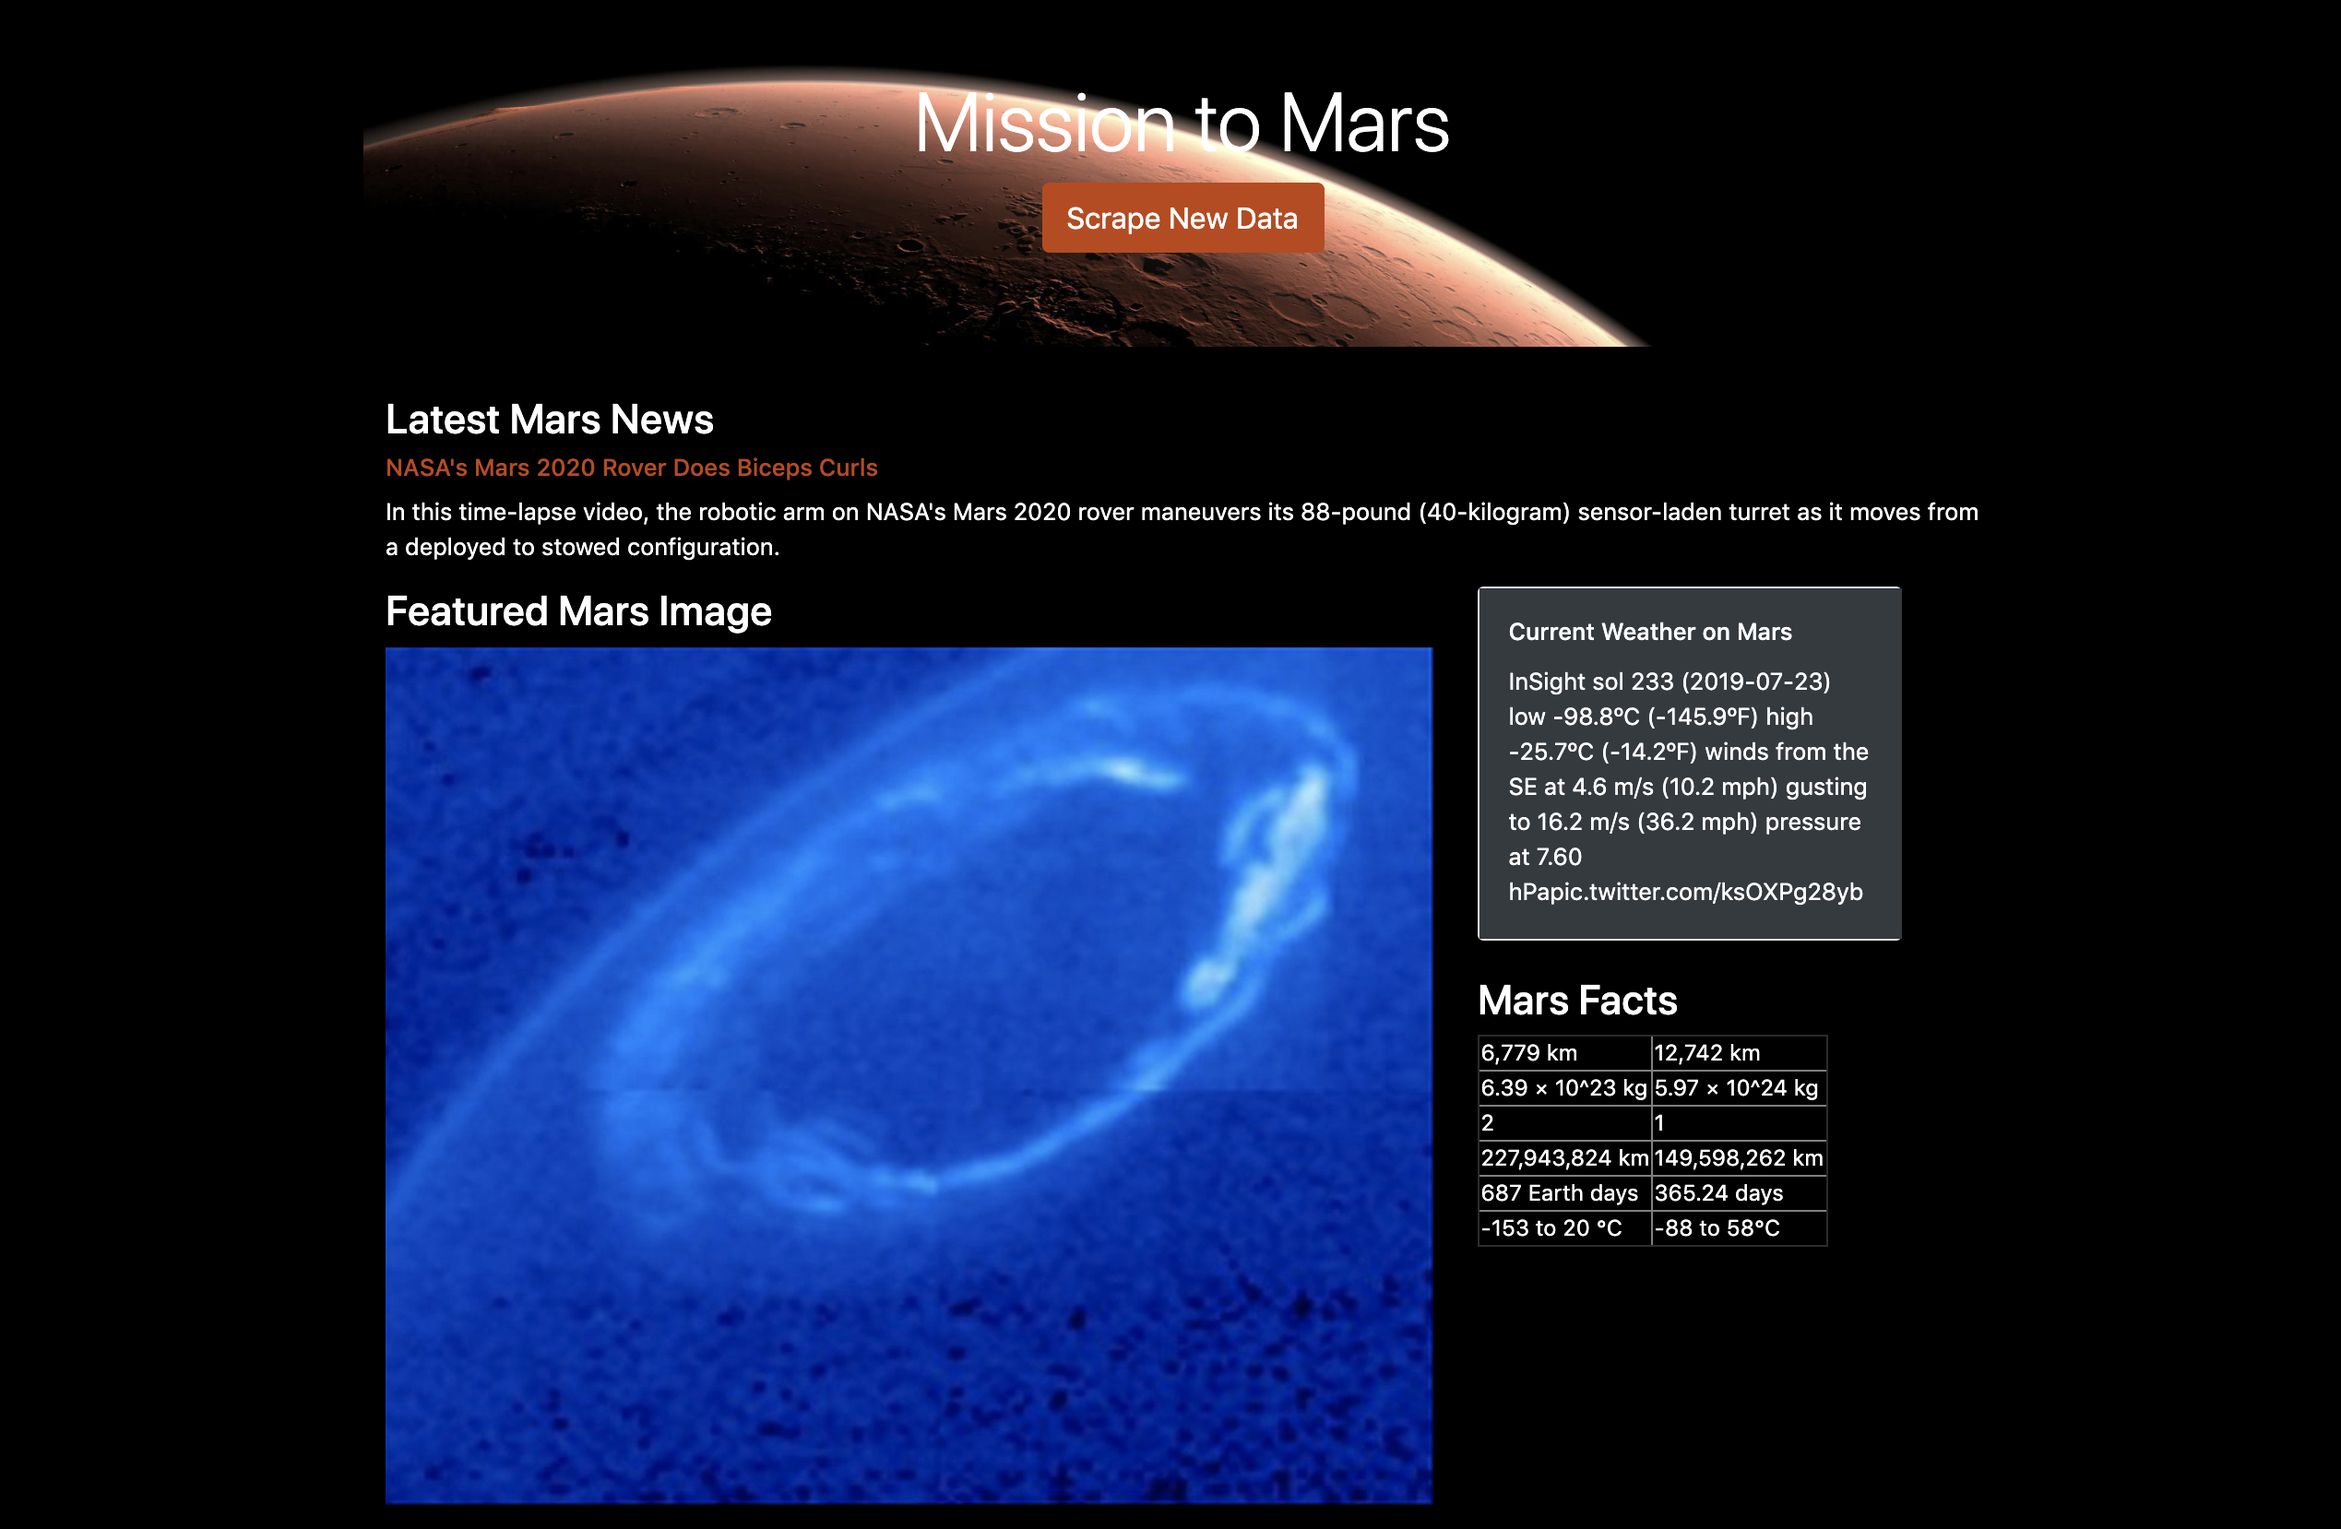
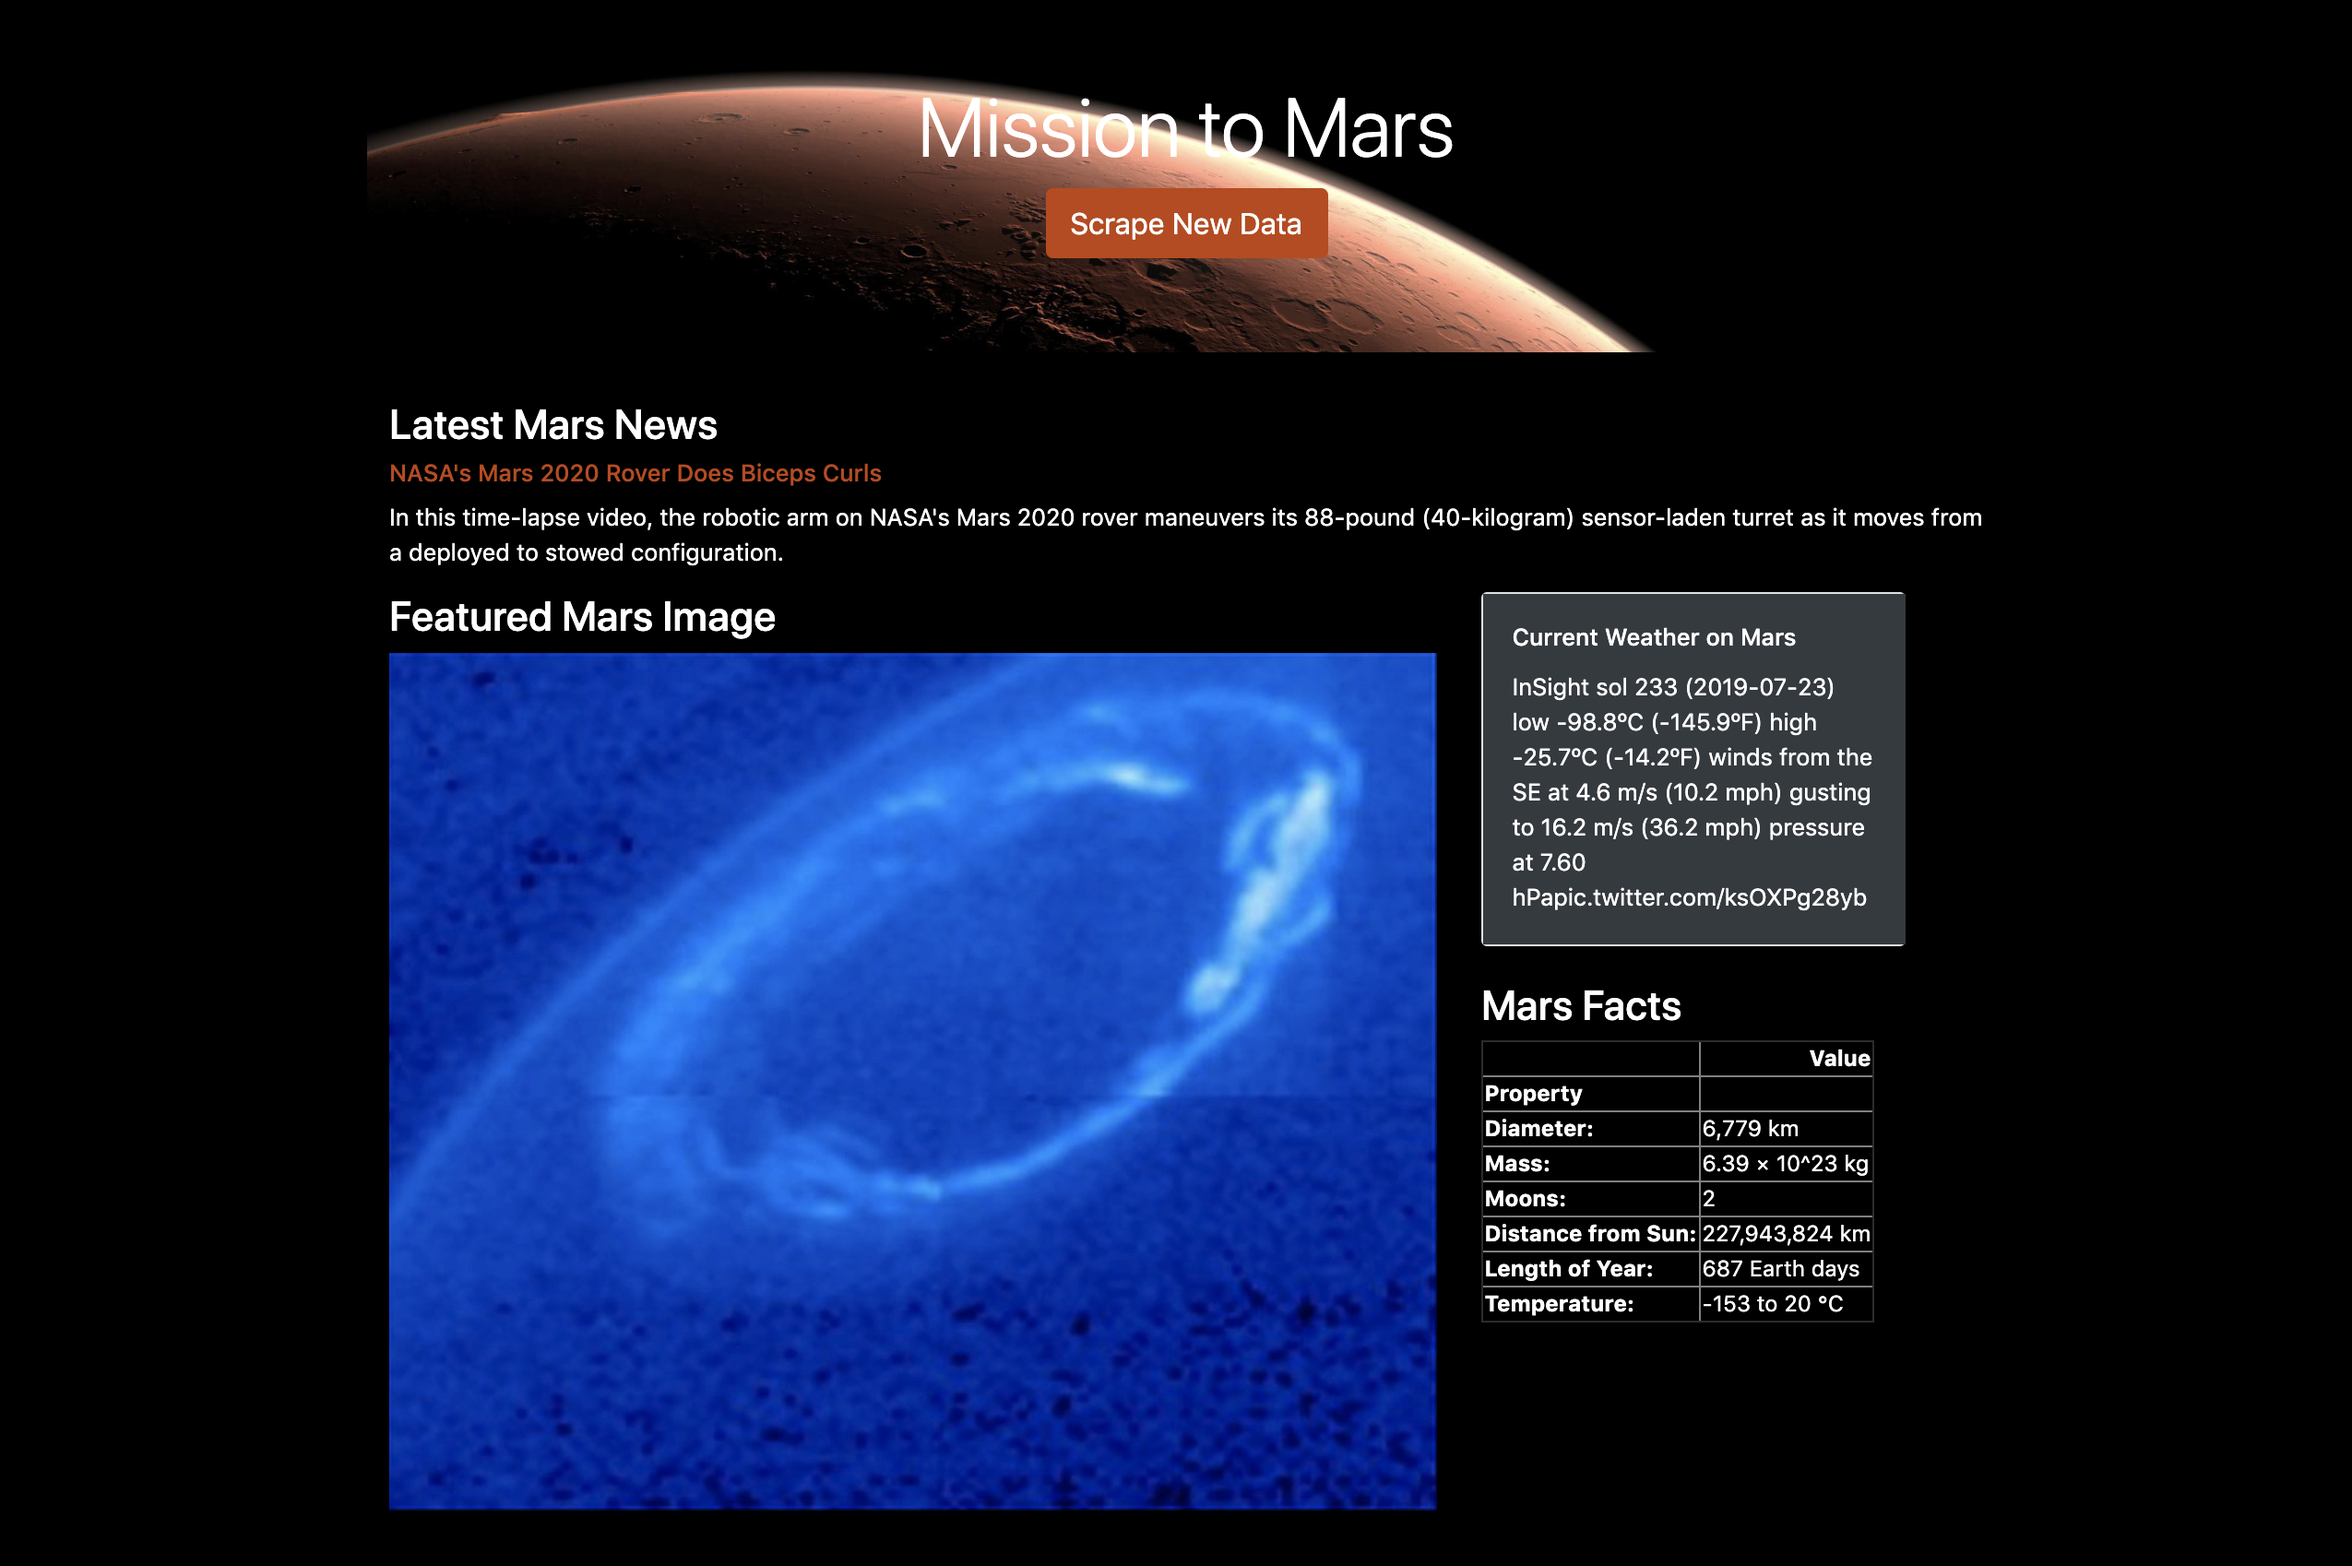
Fixed table

diff --git a/scrape_mars.py b/scrape_mars.py
@@ -77,10 +77,11 @@ def scrape():
 
     mars_facts = table[0]
     mars_only_table = mars_facts.drop(columns={'Earth'})
-    renamed_mars_only_table = mars_facts.rename(columns={'Mars - Earth Comparison': 'Property', 'Mars': 'Value'})
-    renamed_mars_only_table.set_index('Property', inplace=True)
+    renamed_mars_only_table = mars_only_table.rename(
+        columns={'Mars - Earth Comparison': 'Property', 'Mars': 'Value'})
+    final_mars_facts = renamed_mars_only_table.set_index('Property')
 
-    mars_facts_html = renamed_mars_only_table.to_html(header=False, index=False)
+    mars_facts_html = final_mars_facts.to_html(header=True, index=True)
     mars_data["fact_table"] = mars_facts_html
 
     # scrape images of Mars' hemispheres from the USGS site
@@ -97,7 +98,7 @@ def scrape():
     # Creating list for hemisphere urls
     hemisphere_image_urls = []
 
-    # Store the main_ul
+    # Store the main_url
     hemispheres_main_url = 'https://astrogeology.usgs.gov'
 
     # Loop through the items previously stored
